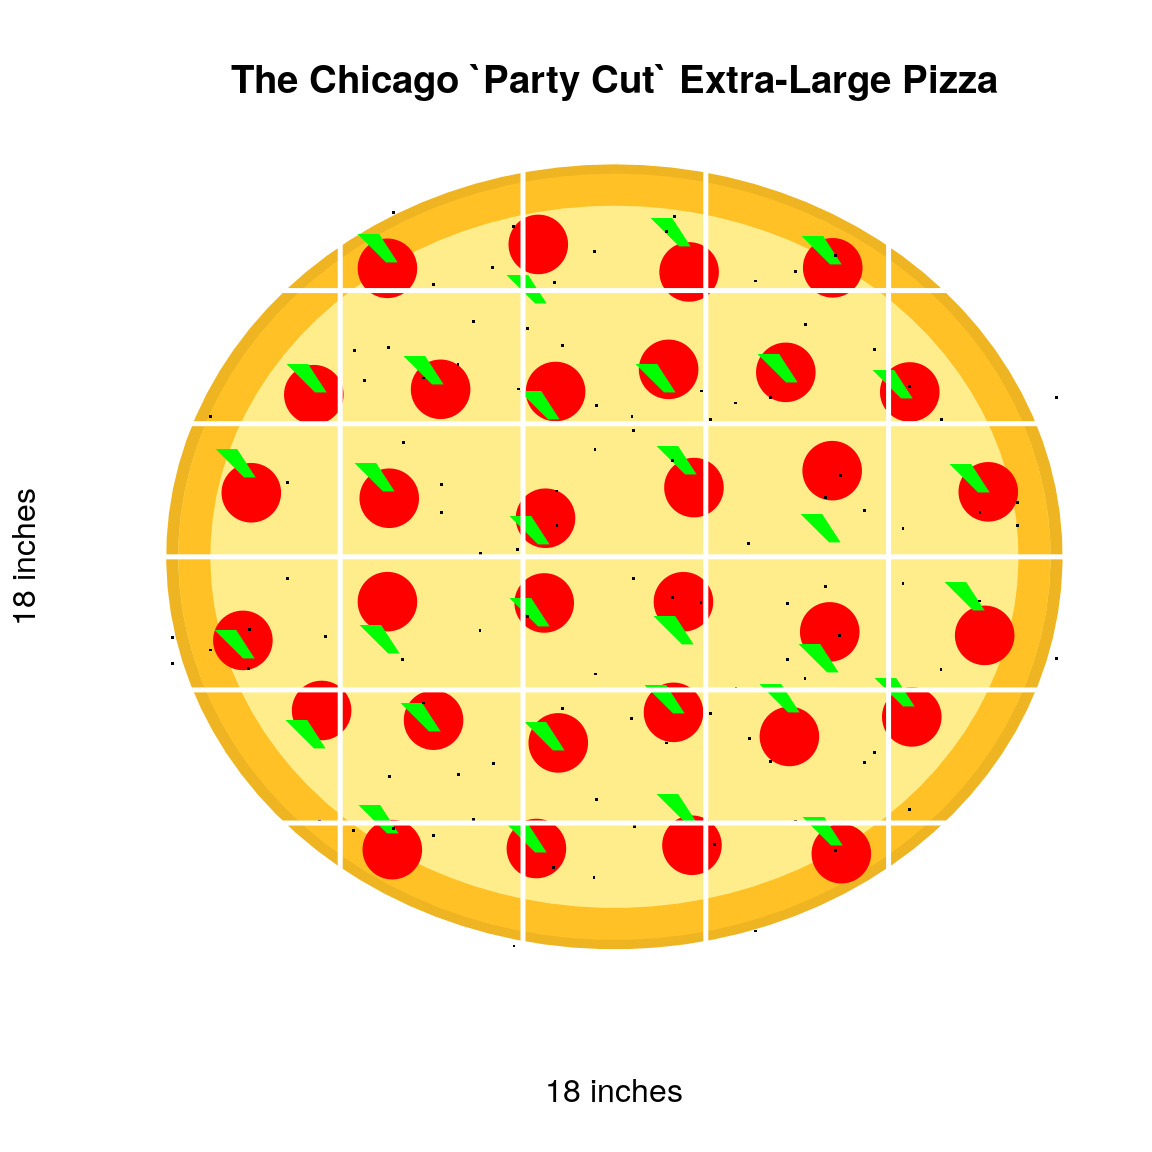
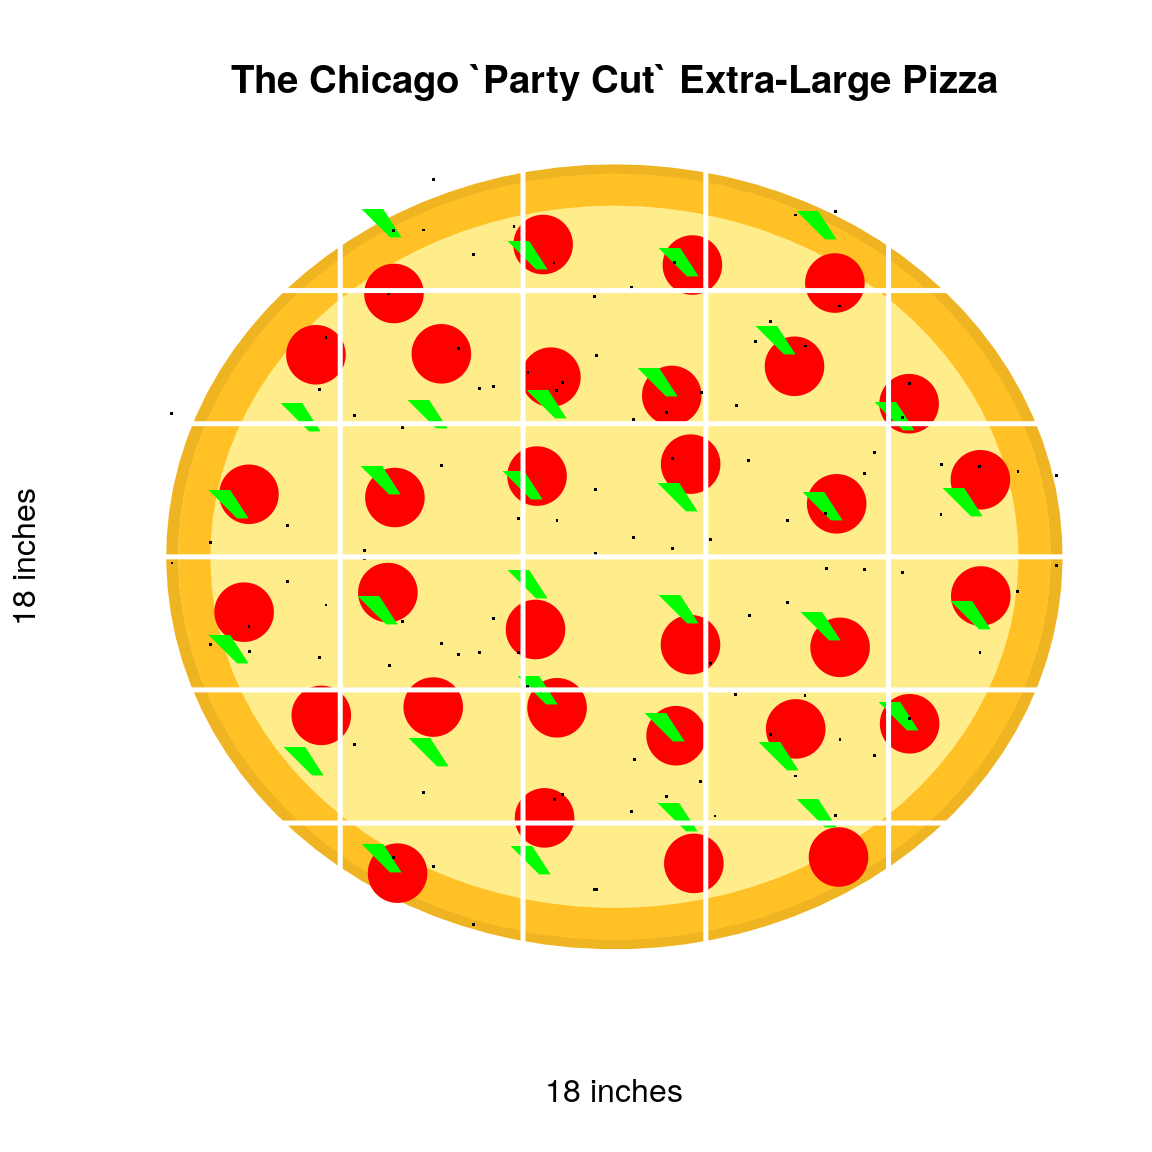
update entire site: change log, readme, etc

diff --git a/docs/index.html b/docs/index.html
@@ -5,11 +5,11 @@
 <meta charset="utf-8">
 <meta http-equiv="X-UA-Compatible" content="IE=edge">
 <meta name="viewport" content="width=device-width, initial-scale=1.0">
-<title>Functions useful for organizing R User Group meetups. • RUGtools</title>
+<title>Functions useful for organizing R User Group meetups • RUGtools</title>
 <!-- jquery --><script src="https://cdnjs.cloudflare.com/ajax/libs/jquery/3.3.1/jquery.min.js" integrity="sha256-FgpCb/KJQlLNfOu91ta32o/NMZxltwRo8QtmkMRdAu8=" crossorigin="anonymous"></script><!-- Bootstrap --><link rel="stylesheet" href="https://cdnjs.cloudflare.com/ajax/libs/twitter-bootstrap/3.3.7/css/bootstrap.min.css" integrity="sha256-916EbMg70RQy9LHiGkXzG8hSg9EdNy97GazNG/aiY1w=" crossorigin="anonymous">
 <script src="https://cdnjs.cloudflare.com/ajax/libs/twitter-bootstrap/3.3.7/js/bootstrap.min.js" integrity="sha256-U5ZEeKfGNOja007MMD3YBI0A3OSZOQbeG6z2f2Y0hu8=" crossorigin="anonymous"></script><!-- Font Awesome icons --><link rel="stylesheet" href="https://cdnjs.cloudflare.com/ajax/libs/font-awesome/4.7.0/css/font-awesome.min.css" integrity="sha256-eZrrJcwDc/3uDhsdt61sL2oOBY362qM3lon1gyExkL0=" crossorigin="anonymous">
 <!-- clipboard.js --><script src="https://cdnjs.cloudflare.com/ajax/libs/clipboard.js/2.0.4/clipboard.min.js" integrity="sha256-FiZwavyI2V6+EXO1U+xzLG3IKldpiTFf3153ea9zikQ=" crossorigin="anonymous"></script><!-- sticky kit --><script src="https://cdnjs.cloudflare.com/ajax/libs/sticky-kit/1.1.3/sticky-kit.min.js" integrity="sha256-c4Rlo1ZozqTPE2RLuvbusY3+SU1pQaJC0TjuhygMipw=" crossorigin="anonymous"></script><!-- pkgdown --><link href="pkgdown.css" rel="stylesheet">
-<script src="pkgdown.js"></script><meta property="og:title" content="Functions useful for organizing R User Group meetups.">
+<script src="pkgdown.js"></script><meta property="og:title" content="Functions useful for organizing R User Group meetups">
 <meta property="og:description" content="This package contains functions, data, reports, and Rmarkdown templates 
    inspired by organizing the Chicago R User Group.">
 <meta name="twitter:card" content="summary">
@@ -77,21 +77,20 @@
 <div class="page-header"><h1 class="hasAnchor">
 <a href="#rugtools" class="anchor"></a>RUGtools</h1></div>
 
-<p><img src="https://github.com/Chicago-R-User-Group/RUGtools/blob/master/inst/rmarkdown/templates/intro_slides/skeleton/images/CRUGtools.png" height="200"></p>
-<p>A collection of data, functions, reports, and a custom r markdown template related to the <a href="https://www.meetup.com/ChicagoRUG/">Chicago R User Group (Chicago RUG, CRUG) Data and Statistics</a>. These include:</p>
+<p>A collection of data, functions, reports, and a custom r markdown template related to the <a href="https://www.meetup.com/ChicagoRUG/">Chicago R User Group (CRUG)</a>. These include:</p>
 <ul>
-<li><p><strong><code>intro_slides</code></strong></p></li>
-<li><p><strong><code>meetup_import</code></strong></p></li>
-<li><p><strong><code>member_list</code></strong></p></li>
-<li><p><strong><code>pizza_estimate</code></strong></p></li>
-<li><p><strong><code>new_mem_counter</code></strong></p></li>
+<li><p><strong><code>pizza_estimate</code></strong>: Function to estimate your meetup pizza order.</p></li>
+<li><p><strong><code>intro_slides</code></strong>: Function to creates an ioslides R Markdown template, with default CRUG content.</p></li>
+<li><p><strong><code>meetup_import</code></strong>: Function to import, clean, and format data manually downloaded from meetup.com’s member list page.</p></li>
+<li><p><strong><code>member_list</code></strong>: RData file downloaded from <a href="https://www.meetup.com/Chicago-R-User-Group/">meetup.com/ChicagoRUG</a> and cleaned with <code>meetup_import</code>. Personally identifiable information (PII) removed, data formated and ready for analysis.</p></li>
+<li><p><strong><code>new_mem_counter</code></strong>: Function generates sum of new members joined between each meetup. Works with <code>data.frame</code> created by <code>meetup_import</code> function.</p></li>
 </ul>
-<p>Please see the <a href="https://justinmshea.github.io/RUGtools/">package companion site</a> for full documentation and examples.</p>
+<p>Please see the <a href="https://justinmshea.github.io/RUGtools/">package companion site</a> for full documentation and the <a href="https://justinmshea.github.io/RUGtools/articles/Introduction-RUGtools.html"><code>Introduction to RUGtools</code></a> vignette.</p>
 <div id="installation" class="section level2">
 <h2 class="hasAnchor">
 <a href="#installation" class="anchor"></a>Installation</h2>
 <p>Install from the Github master branch.</p>
-<pre><code><a href="https://www.rdocumentation.org/packages/devtools/topics/install_github">devtools::install_github("Chicago-R-User-Group/RUGtools")</a></code></pre>
+<pre><code><a href="https://www.rdocumentation.org/packages/devtools/topics/reexports">devtools::install_github("Chicago-R-User-Group/RUGtools")</a></code></pre>
 </div>
 </div>
   </div>

diff --git a/docs/news/index.html b/docs/news/index.html
@@ -110,21 +110,22 @@
       
     </div>
 
-    <div id="rugtools-03-0-in-development" class="section level1">
+    <div id="rugtools-0-3-0-in-development" class="section level1">
 <h1 class="page-header">
-<a href="#rugtools-03-0-in-development" class="anchor"></a>RUGtools 0.3-0 (in Development)</h1>
+<a href="#rugtools-0-3-0-in-development" class="anchor"></a>RUGtools 0.3-0 (in Development)</h1>
 <p>Added a new function, <code>meetup_import</code>, which contains most all of the script preiously contained in the “data-raw/meetup-download-clean.R” file, used to produce the “member_list” data.frame. Now, we just call this function after downloading data from meetup.com and it cleans and formats the data for us.</p>
+<p>Additional content added to the <code>Introduction-RUGtools</code> vignette. These include a better pizza graphic, and additional exploration of time series of membership.</p>
 </div>
-    <div id="rugtools-02-0" class="section level1">
+    <div id="rugtools-0-2-0" class="section level1">
 <h1 class="page-header">
-<a href="#rugtools-02-0" class="anchor"></a>RUGtools 0.2-0</h1>
-<p>In the spirit of open source, doped the <code>C</code> and now its <code>RUGtools</code>, which will hopefully encourage others to use the work and perhaps contribute. Chicago R User group listed as the motivation in the DESCRIPTION file.</p>
+<a href="#rugtools-0-2-0" class="anchor"></a>RUGtools 0.2-0</h1>
+<p>In the spirit of open source, droped the <code>C</code> and now its <code>RUGtools</code>, which will hopefully encourage others to use the work and perhaps contribute. Chicago R User group listed as the motivation in the DESCRIPTION file.</p>
 <p>Created a formal R markdown template of <code>intro-slides</code> which can be called using the <code>draft</code> function or from the Rstudio r markdown template selection. Function <code>intro_slides</code> and supporting scaffolding in the <code>inst</code> folder.</p>
 <p>Now included, a data object, <code>member_list</code>, which contains member data stripped of PII. One can now explore and analyze the data easily by downloading the package and loading the data set with <code><a href="https://www.rdocumentation.org/packages/utils/topics/data">data(member_list)</a></code></p>
 </div>
-    <div id="crugtools-01-0" class="section level1">
+    <div id="crugtools-0-1-0" class="section level1">
 <h1 class="page-header">
-<a href="#crugtools-01-0" class="anchor"></a>CRUGtools 0.1-0</h1>
+<a href="#crugtools-0-1-0" class="anchor"></a>CRUGtools 0.1-0</h1>
 <p>First release contains functions for <code>pizza_estimator</code> and <code>new_mem_counter</code>.</p>
 <p>Vignette <code>new-members</code> displays plots and counts of how many members join the Chicago R User Group between meetups.</p>
 <p>An <code>ioslides</code> template <code>intro-slides</code> used for introducing the meetup has been temporarily parked in the vignettes folder along with supporting images and data.</p>
@@ -135,9 +136,9 @@
     <div id="tocnav">
       <h2>Contents</h2>
       <ul class="nav nav-pills nav-stacked">
-        <li><a href="#rugtools-03-0-in-development">0.3-0</a></li>
-        <li><a href="#rugtools-02-0">0.2-0</a></li>
-        <li><a href="#crugtools-01-0">0.1-0</a></li>
+        <li><a href="#rugtools-0-3-0-in-development">0.3-0</a></li>
+        <li><a href="#rugtools-0-2-0">0.2-0</a></li>
+        <li><a href="#crugtools-0-1-0">0.1-0</a></li>
       </ul>
     </div>
   </div>

diff --git a/docs/reference/new_mem_counter.html b/docs/reference/new_mem_counter.html
@@ -150,7 +150,7 @@ meetup.</p>
 #&gt; 68 2019-02-27  50
 #&gt; 69 2019-03-20  19
 #&gt; 70 2019-05-15  66
-#&gt; 71 2019-05-31  16</div><div class='input'>
+#&gt; 71 2019-06-13  16</div><div class='input'>
  <span class='co'># Plot the new members data since 2017.</span>
 
  <span class='co'># Create Date Range Index</span>
